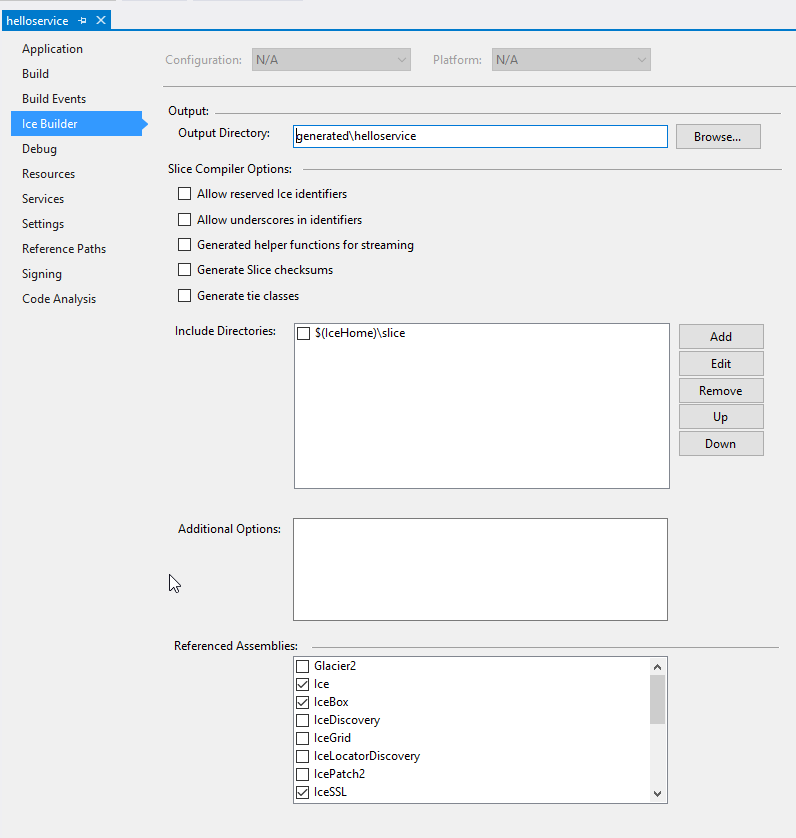
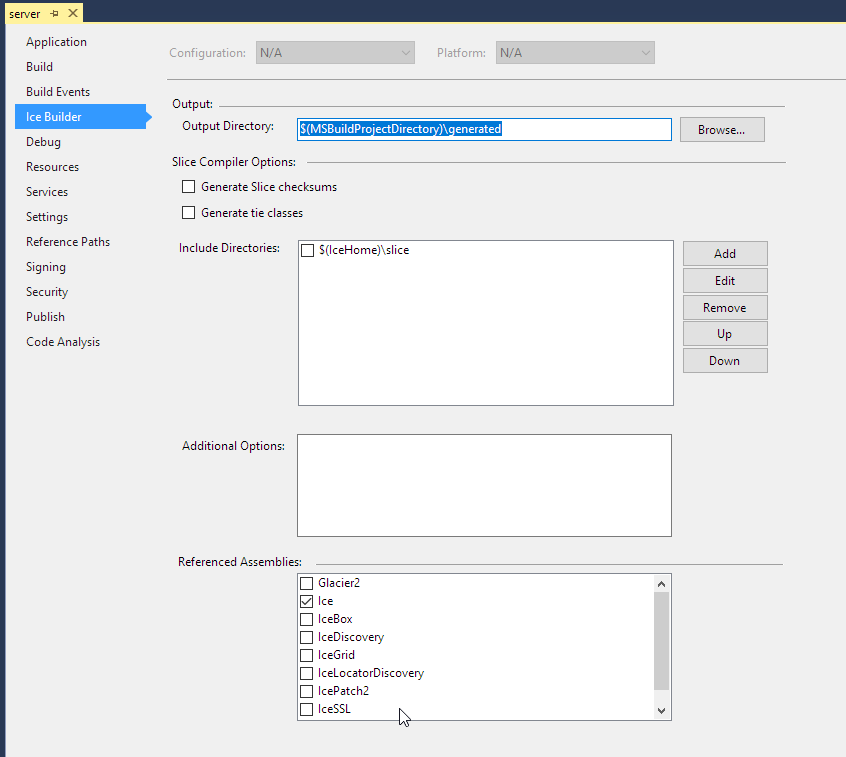
REAMDE updates to reflect changes in last versions

diff --git a/README.md b/README.md
@@ -22,7 +22,7 @@ The Ice Builder is a Visual Studio extension compatible with Visual Studio 2010,
 ## Installation
 
 The Ice Builder is available as two Visual Studio extensions in the
-Visual Studio Marketplace: [Ice Builder](https://marketplace.visualstudio.com/vsgallery/1a64e701-63f2-4740-8004-290e6c682ce0) for Visual Studio 2012, 2013 and 2015 and [Ice Builder for Visual Studio 2010](https://marketplace.visualstudio.com/vsgallery/d5df280b-2972-4d03-babb-e40b1437fde1).
+Visual Studio Marketplace: [Ice Builder](https://marketplace.visualstudio.com/vsgallery/1a64e701-63f2-4740-8004-290e6c682ce0) for Visual Studio 2012, 2013, 2015 and 2018 and [Ice Builder for Visual Studio 2010](https://marketplace.visualstudio.com/vsgallery/d5df280b-2972-4d03-babb-e40b1437fde1).
 
 If you build Ice Builder from sources, simply double-click on `IceBuilder.vsix` or `IceBuilder_VS2010.vsix` to install the extension into Visual Studio.
 
@@ -34,7 +34,7 @@ The Ice Builder compiles and recompiles a Slice file as needed:
 - when the generated C++ or C# source files are missing or older than this Slice file
 - when the generated C++ or C# source files are older than a Slice file included directly or indirectly by this Slice file
 
-The Ice Builder checks whether Slice files need to be compiled or recompiled each time Visual Studio loads a project, and each time you build a project. Saving a Slice file also triggers the (re)compilation of this Slice file. And when you remove or rename a Slice file, the Ice Builder automatically removes the corresponding generated files.
+The Ice Builder checks whether Slice files need to be compiled or recompiled each time Visual Studio loads a project, and each time you build a project. And when you remove or rename a Slice file, the Ice Builder automatically removes the corresponding generated files.
 
 The Ice Builder for Visual Studio 2010 does not include support for the Visual Studio IDE. To add `.ice` files to projects or to configure Slice compiler options, you need to edit the .vcxproj file in a text editor or with the Ice Builder in the IDE of a newer version of Visual Studio.
 
@@ -46,7 +46,7 @@ Project files created with the Ice add-in are not compatible with the Ice Builde
 
 ## Ice Home Configuration
 
-The Ice Builder relies on a specific Ice installation on your system. In Visual Studio, you can view or edit the home directory of this Ice installation through the `TOOLS` > `Options` > `Project and Solutions` > `Ice Builder` options page.
+The Ice Builder relies on a specific Ice installation on your system. In Visual Studio, you can view or edit the home directory of this Ice installation through the `Tools` > `Options` > `Project and Solutions` > `Ice Builder` options page.
 
 This installation can correspond to a binary distribution, such as `C:\Program Files (x86)\ZeroC\Ice-3.6.3`, or to a source tree, such as `C:\users\mike\github\zeroc-ice\ice`.
 
@@ -54,10 +54,15 @@ This installation can correspond to a binary distribution, such as `C:\Program F
 
 :warning: The Ice Home setting is ignored when a project uses an Ice NuGet package. Installing an Ice NuGet package into a project automatically configures the project to use the Ice SDK provided by that NuGet package.
 
+If automatic build option is selected Slice files will be compiled each time they are saved, otherwise they will be only compiled during project builds.
+
 ### Setting Ice Home with Visual Studio 2010
-Since the Ice Builder for Visual Studio 2010 does not support the Visual Studio IDE, you have two ways to set Ice Home:
+
+Since the Ice Builder for Visual Studio 2010 does not support the Visual Studio IDE, you have severals ways to set Ice Home:
  - set Ice Home with Ice Builder and a more recent version of Visual Studio. Ice Builder and Ice Builder for Visual Studio 2010 share the same Ice Home configuration.
  - set Ice Home in the Windows registry, by editing `IceHome` in `HKEY_CURRENT_USER\SOFTWARE\ZeroC\IceBuilder`.
+ - set ICE_HOME enviroment variable
+ - set IceHome MSbuild property `/p:IceHome=<Ice Install Dir>`
 
 ## C++ Usage
 
@@ -65,7 +70,7 @@ Since the Ice Builder for Visual Studio 2010 does not support the Visual Studio 
 
 Follow these steps:
 
-1. Add the Ice Builder to your C++ project by right-clicking on the project and selecting `Add Ice Builder to Project`. Alternatively, you can select the project and use the menu item `TOOLS` > `Add Ice Builder to Project`.
+1. Add the Ice Builder to your C++ project by right-clicking on the project and selecting `Add Ice Builder to Project`. Alternatively, you can select the project and use the menu item `Tools` > `Add Ice Builder to Project`.
 
    Adding the Ice Builder creates a `Slice Files` filter in your project.
 
@@ -85,13 +90,9 @@ These properties are the same for all configurations and platforms, and allow yo
 | --------------------------------------- | ------------------------------------------- | -------------------------- | ----------------------------------- |
 | Output Directory                        | IceBuilderOutputDir                         | $(ProjectDir)\generated    | `--output-dir`                      |
 | Header Output Directory                 | IceBuilderHeaderOutputDir                   | $(IceBuilderOutputDir)     | (none)                              |
-| Allow Reserved Ice Identifiers          | IceBuilderAllowIcePrefix                    | No                         | `--ice`                             |
-| Allow Underscores In Identifiers        | IceBuilderUnderscore                        | No                         | `--underscore`                      |
 | Include Directories                     | IceBuilderIncludeDirectories                | $(IceHome)\slice           | `-I`                                |
 | Base Directory For Generated #include   | IceBuilderBaseDirectory ForGeneratedInclude |                            | `--include-dir`                     |
-| DLL Export Macro                        | IceBuilderDLLExport                         |                            | `--dll-export`                      |
 | Generated Header Extension              | IceBuilderHeaderExt                         | .h                         | `--header-ext`                      |
-| Generate Helper Functions For Streaming | IceBuilderStream                            | No                         | `--stream`                          |
 | Generate Slice Checksums                | IceBuilderChecksum                          | No                         | `--checksum`                        |
 | Generated Source Extension              | IceBuilderSourceExt                         | .cpp                       | `--source-ext`                      |
 | Additional Options                      | IceBuilderAdditionalOptions                 |                            | (any)                               |
@@ -102,7 +103,7 @@ These properties are the same for all configurations and platforms, and allow yo
 
 Follow these steps:
 
-1. Add the Ice Builder to your C# project by right-clicking on the project and selecting `Add Ice Builder to Project`. Alternatively, you can select the project and use the menu item `TOOLS` > `Add Ice Builder to Project`.
+1. Add the Ice Builder to your C# project by right-clicking on the project and selecting `Add Ice Builder to Project`. Alternatively, you can select the project and use the menu item `Tools` > `Add Ice Builder to Project`.
 
    Adding the Ice Builder creates a `Slice Files` filter in your project.
 
@@ -121,9 +122,6 @@ These properties are the same for all configurations and platforms, and allow yo
 | Property                                | MSBuild Property             | Default Value              | Corresponding `slice2cs` parameter |
 | --------------------------------------- | -----------------------------| -------------------------- | ---------------------------------- |
 | Output directory                        | IceBuilderOutputDir          | $(ProjectDir)\generated    | `--output-dir`                     |
-| Allow reserved Ice identifiers          | IceBuilderAllowIcePrefix     | (unchecked)                | `--ice`                            |
-| Allow underscores in identifiers        | IceBuilderUnderscore         | (unchecked)                | `--underscore`                     |
-| Generate helper methods for streaming   | IceBuilderStream             | (unchecked)                | `--stream`                         |
 | Generate Slice checksums                | IceBuilderChecksum           | (unchecked)                | `--checksum`                       |
 | Generate tie classes                    | IceBuilderTie                | (unchecked)                | `--tie`                            |
 | Include directories                     | IceBuilderIncludeDirectories | $(IceHome)\slice           | `-I`                               |
@@ -135,19 +133,25 @@ The Ice Builder automatically adds a reference to the Ice assembly, and allows y
 
 The Ice Builder uses [MSBuild](https://msdn.microsoft.com/en-us/library/dd393574.aspx) tasks to build Slice files using `slice2cpp` and `slice2cs`. As a result, you can build Visual Studio projects that enable Ice Builder directly with MSBuild.
 
-The simplest and most common way to configure Ice Builder is in Visual Studio. You can nevertheless also configure Ice Builder directly in your MSBuild project, by importing two Ice Builder projects into your project.
+The simplest and most common way to configure Ice Builder is in Visual Studio. You can nevertheless also configure Ice Builder directly in your MSBuild project, by importing two Ice Builder projects from the Ice Builder install into your project.
 
-For a C++ project, you need:
+The Ice builder install directory can be read from Windows registry and assigned it to `IceBuilderInstallDir` MSBuild property using the following code:
 
-1. `<Ice Builder Install Path>\Resources\IceBuilder.Cpp.props` - This project defines the default settings for Ice Builder in C++
-2. `<Ice Builder Install Path>\Resources\IceBuilder.Cpp.targets` - This projet defines the targets required to build C++ projects with Ice Builder
+    <PropertyGroup>
+        <IceBuilderInstallDir>$([MSBuild]::GetRegistryValue('HKEY_CURRENT_USER\SOFTWARE\ZeroC\IceBuilder', 'InstallDir.$(VisualStudioVersion)'))</IceBuilderInstallDir>
+    </PropertyGroup>
+
+Then for a C++ project, you need:
+
+1. `$(IceBuilderInstallDir)\Resources\IceBuilder.Cpp.props` - This project defines the default settings for Ice Builder in C++
+2. `$(IceBuilderInstallDir)\Resources\IceBuilder.Cpp.targets` - This projet defines the targets required to build C++ projects with Ice Builder
 
 The import order matters for MSBuild. `IceBuilder.Cpp.props` depends on common properties defined in `Microsoft.Cpp.props` and must be imported after this project. Likewise, `IceBuilder.Cpp.targets` depends on targets defined in `Microsoft.Cpp.targets` and must be imported after this project.
 
-For a C# project, you need:
+And for a C# project, you need:
 
-1. `<Ice Builder Install Path>\Resources\IceBuilder.CSharp.props` - This project defines the default settings for Ice Builder in C# projects
-2. `<Ice Builder Install Path>\Resources\IceBuilder.CSharp.targets` - This project defines the targets required to build C# projects with Ice Builder
+1. `$(IceBuilderInstallDir)\Resources\IceBuilder.CSharp.props` - This project defines the default settings for Ice Builder in C# projects
+2. `$(IceBuilderInstallDir)\Resources\IceBuilder.CSharp.targets` - This project defines the targets required to build C# projects with Ice Builder
 
 Like for C++, the import order is important. Both `IceBuilder.CSharp.props` and `IceBuilder.CSharp.targets` must be imported after `Microsoft.CSharp.targets`.
 
@@ -161,7 +165,7 @@ Ice Builder adds two targets, `IceBuilder_Compile` and `IceBuilder_Clean`, that 
 
 ### Build Requirements
 
-You need Visual Studio 2015
+You need Visual Studio 2017
 
 **AND**
 
@@ -169,10 +173,11 @@ to install ALL the following Visual Studio SDKs:
 - [Visual Studio 2012 SDK](https://www.microsoft.com/en-us/download/details.aspx?id=30668)
 - [Visual Studio 2013 SDK](https://www.microsoft.com/en-us/download/details.aspx?id=40758)
 - [Visual Studio 2015 SDK](https://msdn.microsoft.com/en-us/library/bb166441.aspx)
+- [Visual Studio 2017 SDK](https://docs.microsoft.com/en-us/visualstudio/extensibility/installing-the-visual-studio-sdk)
 
 ### Build Instructions
 
-Open the `IceBuilder.sln` solution file in Visual Studio 2015.
+Open the `IceBuilder.sln` solution file in Visual Studio 2017.
 
 After building the Ice Builder extension, the VSIX package will be placed in the build output directory
 `IceBuilder\bin\Debug\IceBuilder.vsix` for debug builds, and `IceBuilder\bin\Release\IceBuilder.vsix`

diff --git a/CHANGELOG.md b/CHANGELOG.md
@@ -1,6 +1,10 @@
 ## Changes in Ice Builder for Visual Studio 4.3.7
 
+- Added support for Visual Studio 2017
 - Added support for Visual Studio 2010 C++ builds
+- Moved Slice compilers options that were deprecated in 3.7 to additional
+  options and doesn't longer exists as explicit options in the respective
+  configuration pages, projects will be automatically updated.
 
 ## Changes in Ice Builder for Visual Studio 4.3.6
 
